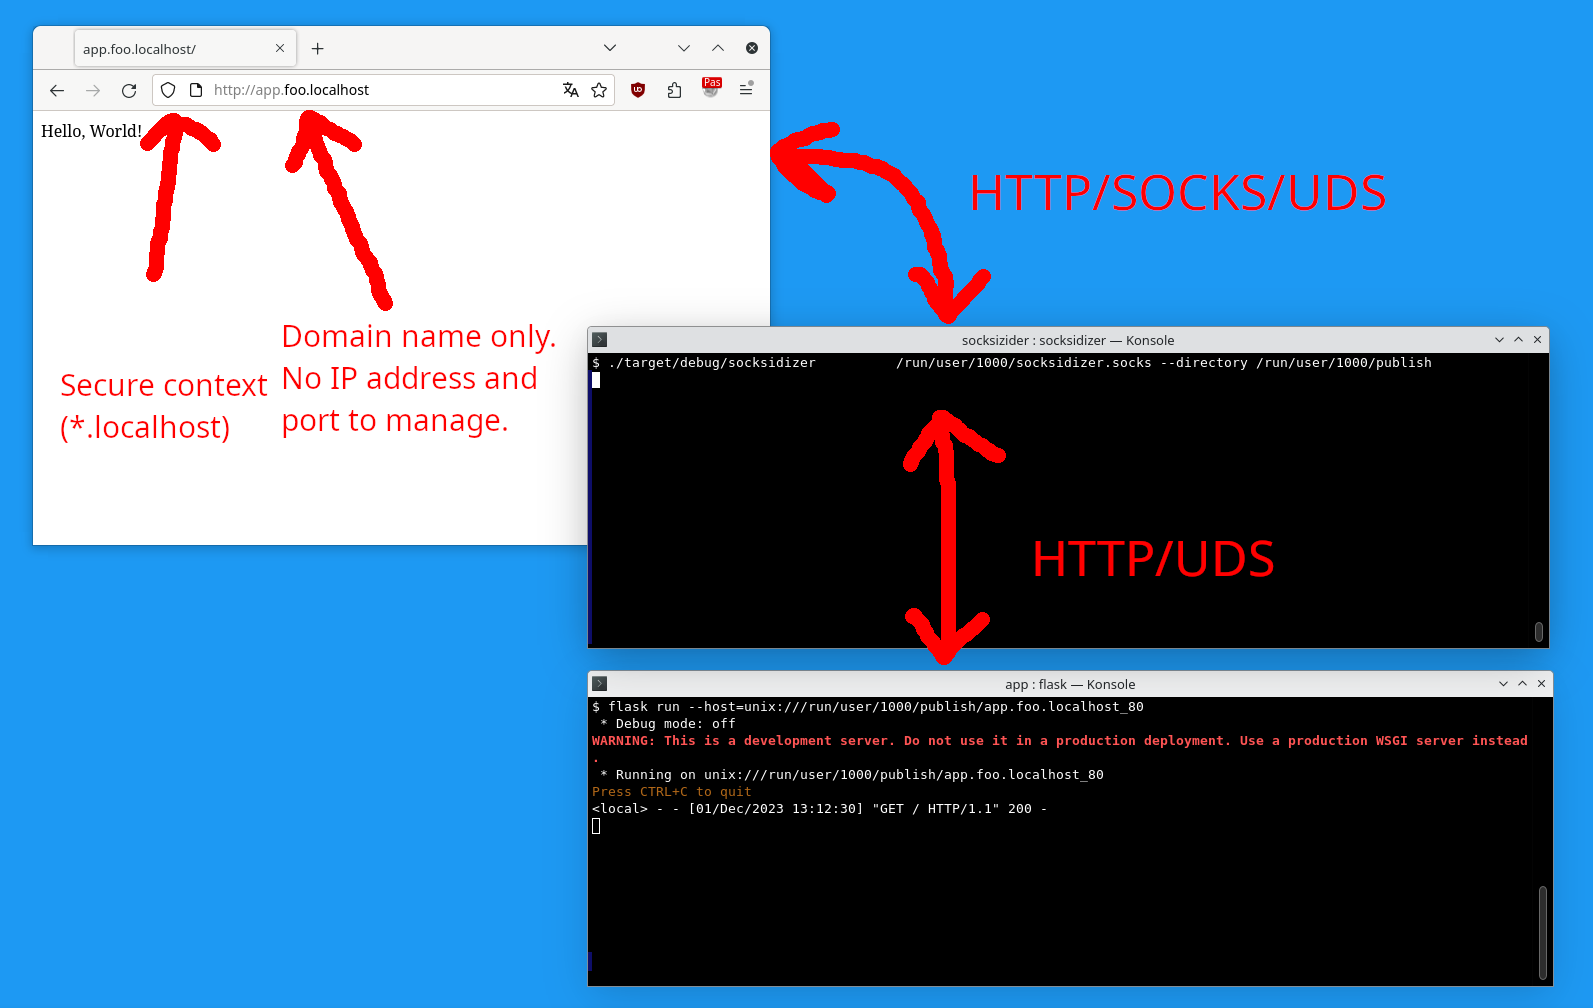
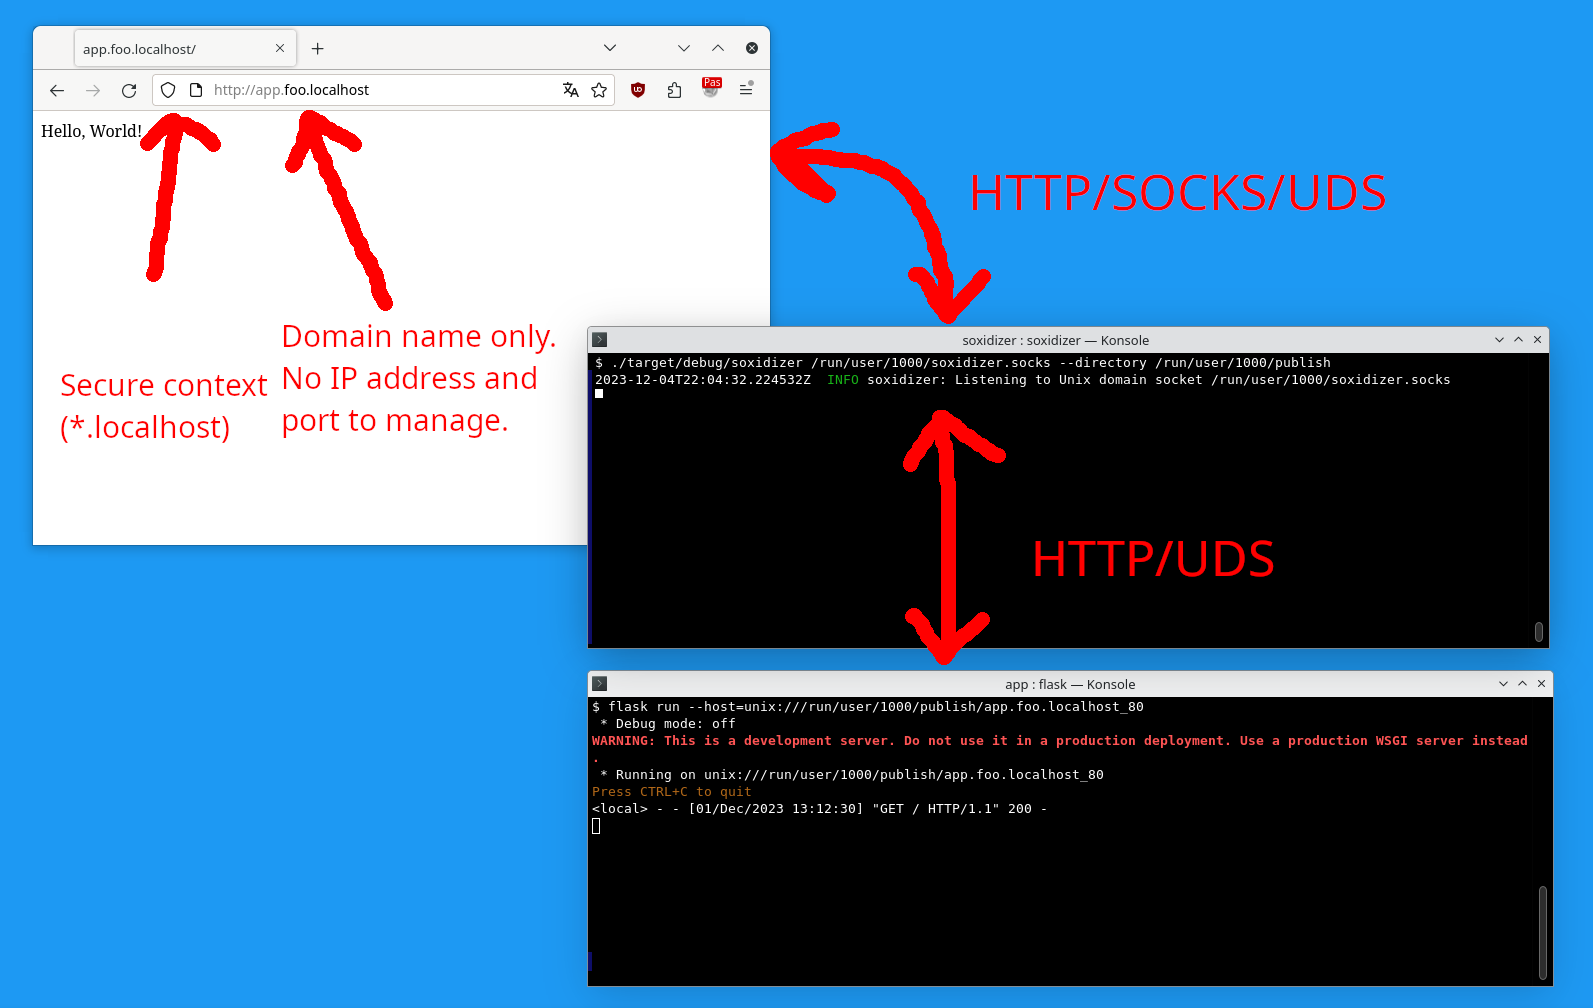
Rename project

Changed region(s): [[0.3691, 0.3383, 0.892, 0.3998]]

diff --git a/README.md b/README.md
@@ -1,4 +1,4 @@
-# Socksidizer
+# Soxidizer
 
 Warning: this is a prototype!
 
@@ -17,7 +17,7 @@ Example protocol stack:
 [HTTP ]<----------------->[HTTP ]
 [SOCKS]<-->[SOCKS]        [-----]
 [UDS  ]<-->[UDS  ]<------>[UDS  ]
-Firefox    Socksidizer    Local Service
+Firefox    soxidizer      Local Service
 </pre>
 
 **Why:**
@@ -57,10 +57,10 @@ Features which probably won't be implemented:
 
 This works like this:
 
-1. socksidizer accepts connection on some UDS socks (eg. `/run/user/${PID}/socksidizer.socks`);
-2. socksidizer receives a SOCKS5 proxy (CONNECT) request from the client;
-3. socksidizer translates this request into a pathname of the form `{directory}/{hostname}_{port}` (eg. `/run/user/${PID}/published/myapp.john.local_443`) and connects to this socket;
-4. socksidizer relays data between the client and the service.
+1. soxidizer accepts connection on some UDS socks (eg. `/run/user/${PID}/soxidizer.socks`);
+2. soxidizer receives a SOCKS5 proxy (CONNECT) request from the client;
+3. soxidizer translates this request into a pathname of the form `{directory}/{hostname}_{port}` (eg. `/run/user/${PID}/published/myapp.john.local_443`) and connects to this socket;
+4. soxidizer relays data between the client and the service.
 
 This currently requires a client which supports SOCKS5 over UDS.
 Firefox and its derivatives support this.
@@ -76,7 +76,7 @@ cargo build
 Build and execute:
 
 ~~~sh
-cargo run -- "${XDG_RUNTIME_DIR}/socksidizer.socks" --directory "${XDG_RUNTIME_DIR}/publish"
+cargo run -- "${XDG_RUNTIME_DIR}/soxidizer.socks" --directory "${XDG_RUNTIME_DIR}/publish"
 ~~~
 
 
@@ -85,13 +85,13 @@ cargo run -- "${XDG_RUNTIME_DIR}/socksidizer.socks" --directory "${XDG_RUNTIME_D
 Listen on a Unix domain socket:
 
 ~~~sh
-socksidizer "${XDG_RUNTIME_DIR}/socksidizer.socks" --directory "${XDG_RUNTIME_DIR}/publish"
+soxidizer "${XDG_RUNTIME_DIR}/soxidizer.socks" --directory "${XDG_RUNTIME_DIR}/publish"
 ~~~
 
 Listen on a TCP socket:
 
 ~~~sh
-socksidizer 127.0.0.1:9000 --directory "${XDG_RUNTIME_DIR}/publish"
+soxidizer 127.0.0.1:9000 --directory "${XDG_RUNTIME_DIR}/publish"
 ~~~
 
 Warnings:
@@ -115,7 +115,7 @@ and should be used if your do not want to exposer your service to other users.
 You can configure Firefox to use a UDS SOCKS proxy.
 In the Network configuration:,
 
-* usa a value of the form `file:///run/user/${PID}/socksidizer.socks` in SOCKS proxy;
+* usa a value of the form `file:///run/user/${PID}/soxidizer.socks` in SOCKS proxy;
 * choose SOCKS5;
 * the port is ignored.
 
@@ -132,12 +132,12 @@ Note: it is not possible to configure UDS proxy using Proxy Auto-Configuration (
 [FoxyProxy](https://addons.mozilla.org/en-US/firefox/addon/foxyproxy-standard/)
 lets you define different network configurations depending on the target URI
 i.e. you can use your default network configuretion (eg. no proxy) for most URIS
-but use Socksidizer to reach some URIS (eg. `http://*.foo.localhost`).
+but use Soxidizer to reach some URIS (eg. `http://*.foo.localhost`).
 
 Add a new proxy in FoxyProxy configuration:
 
 * choose "SOCKS5" for the proxy type;
-* enter an address of the form `file:///run/user/${PID}/socksidizer.socks`;
+* enter an address of the form `file:///run/user/${PID}/soxidizer.socks`;
 * enter any value for the port (it is ignored);
 * check "Send DNS through SOCKS5 proxy";
 * enable it.
@@ -156,13 +156,13 @@ Select "use proxys by template".
 CURL can use a UDS SOCKS proxy with a proxy URI of the form:
 
 ~~~
-socks5h://localhost/run/user/1000/socksidizer.socks
+socks5h://localhost/run/user/1000/soxidizer.socks
 ~~~
 
 Example:
 
 ~~~sh
-curl -x socks5h://localhost/run/user/1000/socksidizer.socks http://app.foo.local
+curl -x socks5h://localhost/run/user/1000/soxidizer.socks http://app.foo.local
 ~~~
 
 
@@ -299,7 +299,7 @@ server.listen(process.env.process.env.XDG_RUNTIME_DIR + "/publish/app.foo.local_
 
 As far as I understand, Firefox (and its derivative) is the only browser
 which can talk to a SOCKS proxy over UDS. It would be possible to have
-Socksidizer listen on TCP localhost. This could be useful
+Soxidizer listen on TCP localhost. This could be useful
 but other local users would still be able to connect to the SOCKS proxy.
 
 
